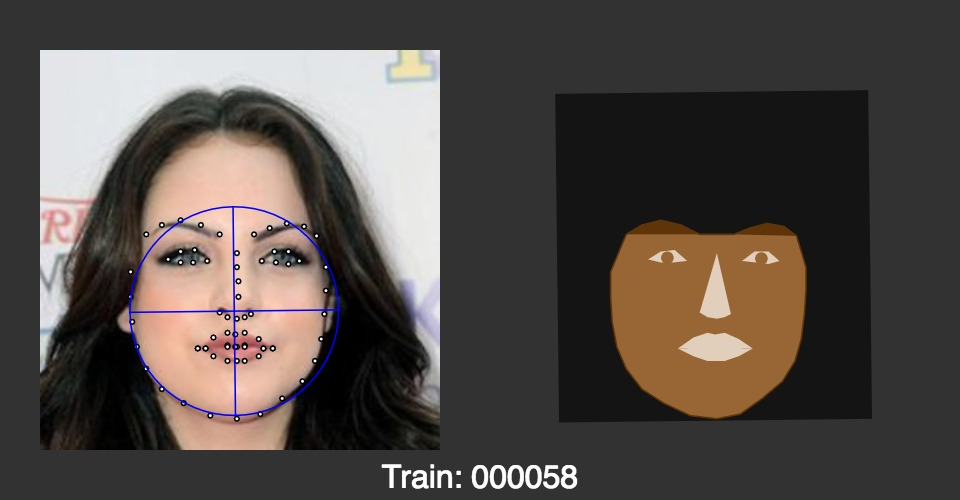
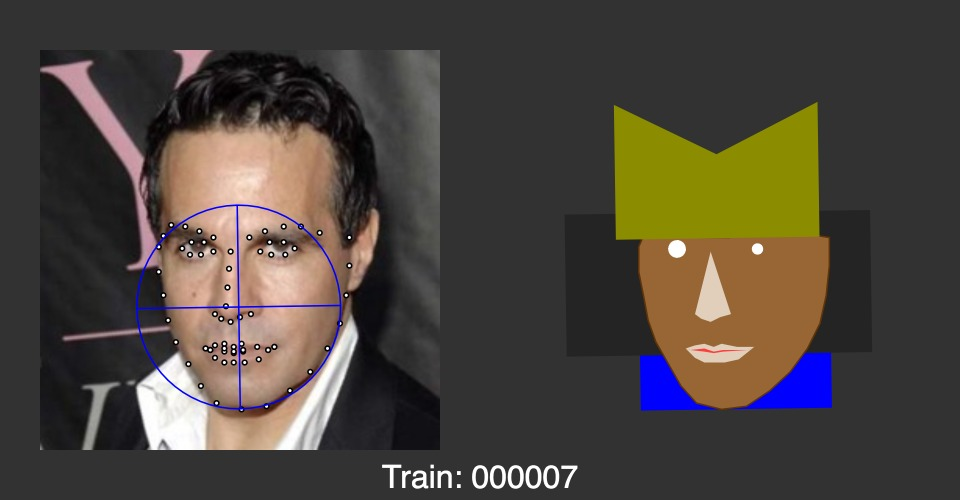
updated thumbnails

diff --git a/facemap.js b/facemap.js
@@ -140,7 +140,7 @@ function FaceMap() {
     endShape(CLOSE);
     strokeWeight(1);
 
-    if(true || this.hasCrown > 50) {
+    if(this.hasCrown > 50) {
       var highest_eye_pos = eye1_pos[1];
       if (eye2_pos[1] < highest_eye_pos) {
         highest_eye_pos = eye2_pos[1]
